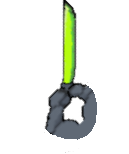
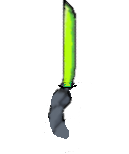
rename класса Trajectory на MeleeStrike

diff --git a/public/js/game/Engine/Weapon/MeleeStrike.js b/public/js/game/Engine/Weapon/MeleeStrike.js
@@ -1,20 +1,20 @@
-import { ENTITY, TRAJECTORY, RAD } from "../../CONST.js";
+import { ENTITY, MELEE_STRIKE, RAD } from "../../CONST.js";
 import { Drawable } from "../Interface/Drawable.js";
 
-class Trajectory extends Drawable {
+class MeleeStrike extends Drawable {
     constructor(x, y, angle) {
-        super(x, y, TRAJECTORY.width, TRAJECTORY.height);
-        this.deltaAngle = TRAJECTORY.deltaAngle;
-        this.animationSpeed = TRAJECTORY.animationSpeed;
-        this.handPoint = TRAJECTORY.handPoint;
+        super(x, y, MELEE_STRIKE.width, MELEE_STRIKE.height);
+        this.deltaAngle = MELEE_STRIKE.deltaAngle;
+        this.animationSpeed = MELEE_STRIKE.animationSpeed;
+        this.handPoint = MELEE_STRIKE.handPoint;
         this.currentAngle = 0;
         this.isAnimating = false;
         this.direction = 0;
         this.angle = angle;
         this.weaponLeft = new Image();
-        this.weaponLeft.src = TRAJECTORY.knifeLeftImage;
+        this.weaponLeft.src = MELEE_STRIKE.knifeLeftImage;
         this.weaponRight = new Image();
-        this.weaponRight.src = TRAJECTORY.knifeRightImage;
+        this.weaponRight.src = MELEE_STRIKE.knifeRightImage;
 
     }
 
@@ -24,9 +24,9 @@ class Trajectory extends Drawable {
         context.translate(this.x + this.h, this.y + this.w);
         context.rotate(this.angle + this.currentAngle + 90 * RAD);
         if (this.direction === 1) {
-            context.drawImage(this.weaponLeft, this.x - currentEndX - ENTITY.h * 1.5, currentEndY - this.y - this.w / 1.15);
+            context.drawImage(this.weaponLeft, this.x - currentEndX - ENTITY.h * 1.6, currentEndY - this.y - this.w / 1);
         } else {
-            context.drawImage(this.weaponRight, this.x - currentEndX - ENTITY.h * 1.5, currentEndY - this.y - this.w / 1.15);
+            context.drawImage(this.weaponRight, this.x - currentEndX - ENTITY.h * 1.6, currentEndY - this.y - this.w / 1);
         }
         context.restore();
     }
@@ -76,7 +76,7 @@ class Trajectory extends Drawable {
     isIntersect(wall) {
         const { currentEndX, currentEndY } = this.calculateEndCoordinates();
 
-        const trajectoryLine = { x1: this.x, y1: this.y, x2: currentEndX, y2: currentEndY };
+        const meleeStrikeLine = { x1: this.x, y1: this.y, x2: currentEndX, y2: currentEndY };
         const wallLines = [
             { x1: wall.x, y1: wall.y, x2: wall.x + wall.w, y2: wall.y }, // верхняя грань
             { x1: wall.x + wall.w, y1: wall.y, x2: wall.x + wall.w, y2: wall.y + wall.h }, // правая грань
@@ -84,7 +84,7 @@ class Trajectory extends Drawable {
             { x1: wall.x, y1: wall.y + wall.h, x2: wall.x, y2: wall.y } // левая грань
         ];
 
-        return wallLines.some(wallLine => this.checkLineIntersection(trajectoryLine, wallLine));
+        return wallLines.some(wallLine => this.checkLineIntersection(meleeStrikeLine, wallLine));
     }
 
     // Метод для проверки пересечения двух линий
@@ -102,4 +102,4 @@ class Trajectory extends Drawable {
     }
 }
 
-export { Trajectory };
+export { MeleeStrike };

diff --git a/public/js/game/Engine/Player/PlayerController.js b/public/js/game/Engine/Player/PlayerController.js
@@ -92,19 +92,19 @@ class PlayerController extends EntityController {
         if (this.getWeapon() && (this.getWeapon().getBattleType() === "close")) {
             if (this.getStacked() === true) {
                 this.setStacked(false)
-                this.removeTrajectory();
+                this.removeMeleeStrike();
             }
             this.setIsStriking(false);
         }
     }
 
     strike() {
-        if (this.getIsStriking() || (!this.getIsStriking() && this.getTrajectory()) || this.getStacked() === true) return;
+        if (this.getIsStriking() || (!this.getIsStriking() && this.getMeleeStrike()) || this.getStacked() === true) return;
 
         this.setIsStriking(true);
 
-        this.createTrajectory();
-        this.getTrajectory().toLeft();
+        this.createMeleeStrike();
+        this.getMeleeStrike().toLeft();
     }
 
     keyDown(event) {
@@ -159,11 +159,11 @@ class PlayerController extends EntityController {
         if (this.getStacked()) return;
         this.model.updatePosition();
 
-        if (this.getTrajectory()) {
-            if (this.getTrajectory().isAnimating) {
-                this.getTrajectory().update(this.getPosition(), this.getAngle(), this.getIsStriking());
+        if (this.getMeleeStrike()) {
+            if (this.getMeleeStrike().isAnimating) {
+                this.getMeleeStrike().update(this.getPosition(), this.getAngle(), this.getIsStriking());
             } else {
-                this.removeTrajectory();
+                this.removeMeleeStrike();
             }
         }
     }
@@ -247,17 +247,17 @@ class PlayerController extends EntityController {
     }
 
     setAnimating(value) {
-        this.model.trajectory.isAnimating = value;
+        this.model.meleeStrike.isAnimating = value;
     }
 
     getAnimating() {
-        return this.model.trajectory.isAnimating;
+        return this.model.meleeStrike.isAnimating;
     }
 
     move(dx, dy) {
         this.model.move(dx, dy);
-        if (this.getTrajectory()){
-            this.getTrajectory().move(dx, dy);
+        if (this.getMeleeStrike()){
+            this.getMeleeStrike().move(dx, dy);
         }
     }
 

diff --git a/public/js/game/Engine/Engine/EngineController.js b/public/js/game/Engine/Engine/EngineController.js
@@ -113,18 +113,18 @@ class EngineController {
     checkIntersections(drawableArray, moveableArray) {
         this.bulletsIntersectionWall(drawableArray);
         this.bulletsIntersectionEnemy(moveableArray);
-        this.intersectTrajectory(drawableArray);
+        this.intersectMeleeStrike(drawableArray);
         drawableArray.forEach(obj => {
             this.player.check(obj);
         });
     }
 
-    intersectTrajectory(walls) {
-        if (!this.player.getTrajectory()) return;
+    intersectMeleeStrike(walls) {
+        if (!this.player.getMeleeStrike()) return;
         for (const wall of walls) {
-            if (this.player.getTrajectory().isIntersect(wall)) {
+            if (this.player.getMeleeStrike().isIntersect(wall)) {
                 if (!this.player.getIsStriking()) {
-                    this.player.removeTrajectory();
+                    this.player.removeMeleeStrike();
                 } else {
                     this.player.setStacked(true);
                 }
@@ -147,9 +147,9 @@ class EngineController {
         } else if (event.code === KEYBOARD_E) {
             this.player.setStacked(false);
             this.player.dropWeapon();
-            if (this.player.getTrajectory()) {
+            if (this.player.getMeleeStrike()) {
                 this.player.setAnimating(false);
-                this.player.removeTrajectory();
+                this.player.removeMeleeStrike();
             }
         }
         if (event.code === KEYBOARD_TAB) {

diff --git a/public/js/game/Engine/Entity/EntityController.js b/public/js/game/Engine/Entity/EntityController.js
@@ -1,5 +1,5 @@
 import { WEAPON_STATE } from "../../CONST.js";
-import { Trajectory } from "../Weapon/Trajectory.js";
+import { MeleeStrike } from "../Weapon/MeleeStrike.js";
 import { SkinModel } from "./Skin/SkinModel.js";
 
 class EntityController {
@@ -63,16 +63,16 @@ class EntityController {
         this.model.weaponId = id;
     }
 
-    createTrajectory() {
-        this.model.trajectory = new Trajectory(this.model.x, this.model.y, this.model.angle);
+    createMeleeStrike() {
+        this.model.meleeStrike = new MeleeStrike(this.model.x, this.model.y, this.model.angle);
     }
 
-    removeTrajectory() {
-        this.model.trajectory = null;
+    removeMeleeStrike() {
+        this.model.meleeStrike = null;
     }
 
-    getTrajectory() {
-        return this.model.trajectory;
+    getMeleeStrike() {
+        return this.model.meleeStrike;
     }
 
     isActive() {

diff --git a/public/js/game/CONST.js b/public/js/game/CONST.js
@@ -253,7 +253,7 @@ const WEAPON_STATE = {
     inTheHand: 1,
 };
 
-const TRAJECTORY = {
+const MELEE_STRIKE = {
     handPoint: 40,
     width: 150,
     height: 10,
@@ -263,4 +263,4 @@ const TRAJECTORY = {
     knifeRightImage: "public/assets/Weapon/right.png",
 };
 
-export {RPS, REQUEST_DURATION, FRAME_DURATION, WINDOW, LEADER_BOARD, HEALTH, SKINS, DRAW_BULLETS_AMOUNT, AMMUNITION, CELL, WALL, INTERFACE, ENTITY, SHAKE, BONUS, BULLET, WEAPON, WEAPON_MODELS, CAMERA, KEYBOARD_E, KEYBOARD_TAB, WEAPON_STATE, RAD, FPS, TRAJECTORY, SERVER, ENEMY};
+export {RPS, REQUEST_DURATION, FRAME_DURATION, WINDOW, LEADER_BOARD, HEALTH, SKINS, DRAW_BULLETS_AMOUNT, AMMUNITION, CELL, WALL, INTERFACE, ENTITY, SHAKE, BONUS, BULLET, WEAPON, WEAPON_MODELS, CAMERA, KEYBOARD_E, KEYBOARD_TAB, WEAPON_STATE, RAD, FPS, MELEE_STRIKE, SERVER, ENEMY};

diff --git a/public/js/game/Engine/Engine/EngineView.js b/public/js/game/Engine/Engine/EngineView.js
@@ -21,8 +21,8 @@ class EngineView {
         field.drawBonuses(this.context);
         field.drawWeapons([].concat(player, Object.values(enemies)), this.context);
         field.drawAmmunition(this.context);
-        if (player.getTrajectory()) {
-                player.getTrajectory().draw(this.context);
+        if (player.getMeleeStrike()) {
+                player.getMeleeStrike().draw(this.context);
         }
         if (player.isAlive()) {
             this.entityView.draw(player);

diff --git a/public/js/game/Engine/Entity/EntityView.js b/public/js/game/Engine/Entity/EntityView.js
@@ -15,7 +15,7 @@ class EntityView {
         const weaponId = entity.getWeaponId();
         //console.log(weaponId, entity.getWeapon());
         const weapon = entity.getWeapon();
-        const animation = entity.getTrajectory();
+        const animation = entity.getMeleeStrike();
         this.context.save();
         this.context.translate(x, y);
         this.context.rotate(angle + 90 * RAD);

diff --git a/public/js/game/Engine/Entity/EntityModel.js b/public/js/game/Engine/Entity/EntityModel.js
@@ -7,7 +7,7 @@ class EntityModel extends Moveable {
         super(x, y, ENTITY.w, ENTITY.h, ENTITY.radius);
         this.weapon = null;
         this.weaponId = 0;
-        this.trajectory = null;
+        this.meleeStrike = null;
         this.health = ENTITY.health;
         this.maxHealth = ENTITY.maxHealth;
         this.bullets = [];

diff --git a/public/js/game/Engine/Player/PlayerModel.js b/public/js/game/Engine/Player/PlayerModel.js
@@ -1,6 +1,6 @@
 import { EntityModel } from "../Entity/EntityModel.js";
 import { ENTITY } from "../../CONST.js";
-import { Trajectory } from "../Weapon/Trajectory.js";
+import { MeleeStrike } from "../Weapon/MeleeStrike.js";
 
 class PlayerModel extends EntityModel {
     constructor({ x, y }, skinId, nickName) {
